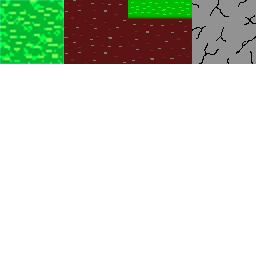
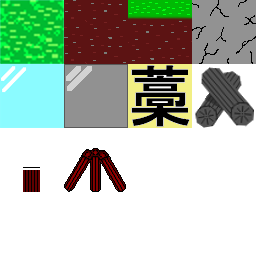
Tiledでギミックを設置できるようになった
列挙型GimmickTypeの追加

メソッドクラスにpublic static void CreateGimmicksを追加

MapManagerクラスのステージ1の更新

by 長谷川修一

Changed region(s): [[0.0, 0.25, 1.0, 0.5], [0.25, 0.5625, 0.5, 0.75], [0.0625, 0.625, 0.1562, 0.75]]

diff --git a/TeamWorkGame/TeamWorkGame/TeamWorkGame/Utility/Method.cs b/TeamWorkGame/TeamWorkGame/TeamWorkGame/Utility/Method.cs
@@ -2,8 +2,8 @@
 // 重要のメソッド達
 // 作成時間：2016/10/1
 // 作成者：氷見悠人　
-// 最終修正時間：2016/10/14
-// 修正者：氷見悠人
+// 最終修正時間：2016/10/19
+// 修正者:長谷川修一
 /////////////////////////////////////////////////////////
 using System;
 using System.Collections.Generic;
@@ -11,6 +11,7 @@ using System.Linq;
 using System.Text;
 using Microsoft.Xna.Framework;
 using TeamWorkGame.Actor;
+using TeamWorkGame.Def;
 
 namespace TeamWorkGame.Utility
 {
@@ -213,6 +214,61 @@ namespace TeamWorkGame.Utility
             //}
 
             return flag;
+        }
+
+        //by 長谷川修一 10/19
+        /// <summary>
+        /// ギミック設置
+        /// </summary>
+        /// <param name="mapdata"></param>
+        /// <param name="MapThings"></param>
+        public static void CreateGimmicks(int[,] mapdata, List<GameObject> MapThings)
+        {
+            for (int i = 0; i < mapdata.GetLength(0); i++)
+            {
+                for (int j = 0; j < mapdata.GetLength(1); j++)
+                {
+                    switch (mapdata[i, j])
+                    {
+                        case (int)GimmickType.ICE:
+                            {
+                                Ice ice = new Ice(new Vector2(j * 64, i * 64), Vector2.Zero);
+                                MapThings.Add(ice);
+                                break;
+                            }
+                        case (int)GimmickType.IRON:
+                            {
+                                Iron iron = new Iron(new Vector2(j * 64, i * 64), Vector2.Zero);
+                                MapThings.Add(iron);
+                                break;
+                            }
+                        case (int)GimmickType.LIGHT:
+                            {
+                                Light light = new Light(new Vector2(j * 64, i * 64));
+                                MapThings.Add(light);
+                                break;
+                            }
+                        case (int)GimmickType.STRAW:
+                            {
+                                Straw straw = new Straw(new Vector2(j * 64, i * 64));
+                                MapThings.Add(straw);
+                                break;
+                            }
+                        case (int)GimmickType.COAL:
+                            {
+                                Coal coal = new Coal(new Vector2(j * 64, i * 64), Vector2.Zero);
+                                MapThings.Add(coal);
+                                break;
+                            }
+                        case (int)GimmickType.GOAL:
+                            {
+                                Goal goal = new Goal(new Vector2(j * 64, i * 64 + 20));
+                                MapThings.Add(goal);
+                                break;
+                            }
+                    }
+                }
+            }
         }
     }
 }

diff --git a/TeamWorkGame/TeamWorkGame/TeamWorkGame/Scene/PlayScene.cs b/TeamWorkGame/TeamWorkGame/TeamWorkGame/Scene/PlayScene.cs
@@ -35,7 +35,7 @@ namespace TeamWorkGame.Scene
         private List<GameObject> nowCoals;  //現在の炭の数 By佐瀬拓海
         private InputState inputState;
         private ClearSelect clearSelect;    //clear後の選択画面
-        
+
 
         public PlayScene(GameDevice gameDevice, int mapIndex = 0)
         {
@@ -150,15 +150,19 @@ namespace TeamWorkGame.Scene
             {
                 for (int j = 0; j < map.Data.GetLength(1); j++)
                 {
-                    if (MapManager.GetNowMapArr()[i, j] != -1)
+                    //動かないマップチップはここで描画 by 長谷川修一
+                    if (MapManager.GetNowMapArr()[i, j] == 1 || MapManager.GetNowMapArr()[i, j] == 2)
+                    {
                         renderer.DrawTexture("TileMapSource", map.GetBlockPosition(new BlockIndex(j, i)) + camera.OffSet, GetRect(map.Data[i, j]));
+                    }
+
                 }
             }
 
             //map.MapThings.ForEach(x => x.Draw(renderer, camera.OffSet));
-            foreach(var x in map.MapThings)//By　佐瀬 拓海
+            foreach (var x in map.MapThings)//By　佐瀬 拓海
             {
-                if(x is Ice)
+                if (x is Ice)
                 {
                     x.Draw(renderer, camera.OffSet, ((Ice)x).GetAlpha());
                 }
@@ -210,14 +214,16 @@ namespace TeamWorkGame.Scene
 
         public void ShutDown()
         {
-            
+
         }
 
-        NextScene IScene.Next() {
+        NextScene IScene.Next()
+        {
 
             //clear画面の選択肢によって、処理する
             NextScene nextScene;
-            if ( clearSelect.GetSelect == 0) {      //Next
+            if (clearSelect.GetSelect == 0)
+            {      //Next
                 if (mapIndex == MapManager.StageCount - 1)
                 {
                     mapIndex = 0;
@@ -227,16 +233,17 @@ namespace TeamWorkGame.Scene
                     mapIndex++;
                 }
 
-                nextScene = new NextScene(SceneType.PlayScene, mapIndex );
+                nextScene = new NextScene(SceneType.PlayScene, mapIndex);
             }
-            else if (clearSelect.GetSelect == 1) {     //RePlay
-                
-                nextScene = new NextScene(SceneType.PlayScene, mapIndex );
+            else if (clearSelect.GetSelect == 1)
+            {     //RePlay
+
+                nextScene = new NextScene(SceneType.PlayScene, mapIndex);
             }
             else {      //World
                 nextScene = new NextScene(SceneType.Stage, -1);
             }
-             
+
             return nextScene;
         }
     }

diff --git a/TeamWorkGame/TeamWorkGame/TeamWorkGame/Def/MapManager.cs b/TeamWorkGame/TeamWorkGame/TeamWorkGame/Def/MapManager.cs
@@ -3,8 +3,8 @@
 // マップ作成管理クラス
 // 作成時間：2016/9/30
 // 作成者：氷見悠人
-// 最終修正時間：2016年10月15日
-// By　氷見悠人
+// 最終修正時間：2016年10月19日
+// By 長谷川修一
 /////////////////////////////////////////////////
 using System;
 using System.Collections.Generic;
@@ -34,9 +34,9 @@ namespace TeamWorkGame.Def
                 return CreateStage.Count;
             }
         }
-        //ステージ１の編集
-        //葉梨竜太
-        //２０１６年１０月１３日
+
+        //Tiledでギミックを設置できるように
+        //by 長谷川修一
         public static void Stage1()
         {
             List<Actor.GameObject> MapThings = new List<Actor.GameObject>();
@@ -59,16 +59,12 @@ namespace TeamWorkGame.Def
                 { 1,-1,-1,-1,-1,-1,-1,-1,-1,-1,-1,-1,-1,-1,-1,-1,-1,-1,-1,-1,-1,-1,-1,-1,-1,-1,-1,-1,-1,1 },
                 { 1,-1,-1,-1,-1,-1,-1,-1,-1,-1,-1,-1,-1,-1,-1,-1,-1,-1,-1,-1,-1,-1,-1,-1,-1,-1,-1,-1,-1,1 },
                 { 1,-1,-1,-1,-1,-1,-1,-1,-1,-1,-1,-1,-1,-1,-1,-1,-1,-1,-1,-1,-1,-1,-1,-1,-1,-1,-1,-1,-1,1 },
-                { 1,-1,-1,-1,-1,-1,-1,-1,-1,-1,-1,-1,-1,-1,-1,-1,-1,-1,-1,-1,-1,-1,-1,-1,-1,-1,-1,-1,-1,1 },
+                { 1,-1,-1,-1,-1,-1,-1,-1,-1,-1,-1,-1,-1,-1,-1,-1,-1,-1,-1,-1,-1,-1,-1,-1,9,-1,-1,-1,-1,1 },
                 { 2,2,2,2,2,2,2,2,2,2,2,2,2,2,2,2,2,2,2,2,2,2,2,2,2,2,2,2,2,2 },
                 { 1,1,1,1,1,1,1,1,1,1,1,1,1,1,1,1,1,1,1,1,1,1,1,1,1,1,1,1,1,1 }
-
             };
 
-            Goal goal = new Goal(new Vector2(64 * 23, 64 * 18 - 44));
-
-            MapThings.Add(goal);
-
+            Method.CreateGimmicks(mapdata, MapThings);
             map = new Map(mapdata, blockSize, MapThings);
         }
 
@@ -325,7 +321,8 @@ namespace TeamWorkGame.Def
                 CreateStage[i]();
             //}
         }
-       
+ 
+
         public static int[,] GetNowMapArr()
         {
             return map.Data;

diff --git a/TeamWorkGame/TeamWorkGame/TeamWorkGame/Actor/Fire.cs b/TeamWorkGame/TeamWorkGame/TeamWorkGame/Actor/Fire.cs
@@ -102,7 +102,7 @@ namespace TeamWorkGame.Actor
         {
             velocity.Y += gForce;
 
-            Method.MapObstacleCheck(ref position, colSize.Width, colSize.Height, ref velocity, ref isOnGround, map, new int[] { 0, 1, 2 });
+            Method.MapObstacleCheck(ref position, colSize.Width, colSize.Height, ref velocity, ref isOnGround, map, new int[] { 1, 2 });
 
             //マップ上の物と障害物判定
             foreach (var m in map.MapThings.FindAll(x => !x.IsTrigger))

diff --git a/TeamWorkGame/TeamWorkGame/TeamWorkGame/Actor/Player.cs b/TeamWorkGame/TeamWorkGame/TeamWorkGame/Actor/Player.cs
@@ -233,7 +233,7 @@ namespace TeamWorkGame.Actor
 
             velocity.Y += gForce;
 
-            Method.MapObstacleCheck(ref position, colSize.Width, colSize.Height, ref velocity, ref isOnGround, map, new int[] { 0, 1, 2 });
+            Method.MapObstacleCheck(ref position, colSize.Width, colSize.Height, ref velocity, ref isOnGround, map, new int[] { 1, 2 });
 
             //マップ上の物と障害物判定
             foreach (var m in map.MapThings.FindAll(x => !x.IsTrigger))

diff --git a/TeamWorkGame/TeamWorkGame/TeamWorkGame/Def/GimmickType.cs b/TeamWorkGame/TeamWorkGame/TeamWorkGame/Def/GimmickType.cs
@@ -1,0 +1,24 @@
+//最終更新日：10月19日
+//by 長谷川修一
+
+using System;
+using System.Collections.Generic;
+using System.Linq;
+using System.Text;
+
+namespace TeamWorkGame.Def
+{
+    enum GimmickType
+    {
+        GRASS = 0,
+        GROUND1,
+        GROUND2,
+        ROCK,
+        ICE,
+        IRON,
+        STRAW,
+        COAL,
+        LIGHT,
+        GOAL,
+    }
+}
